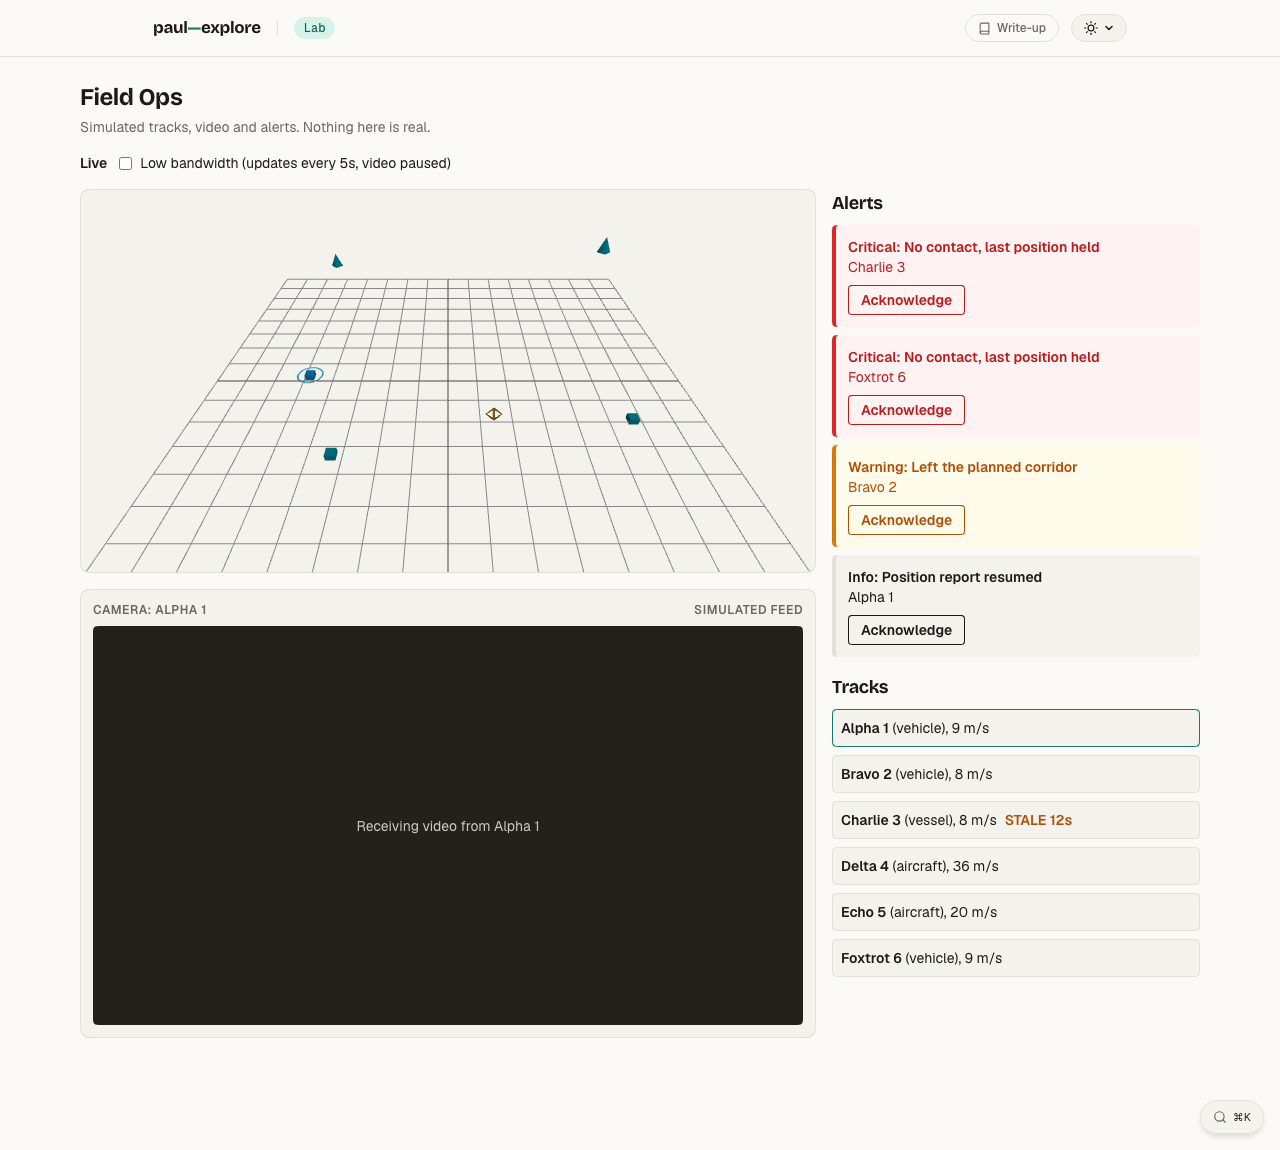
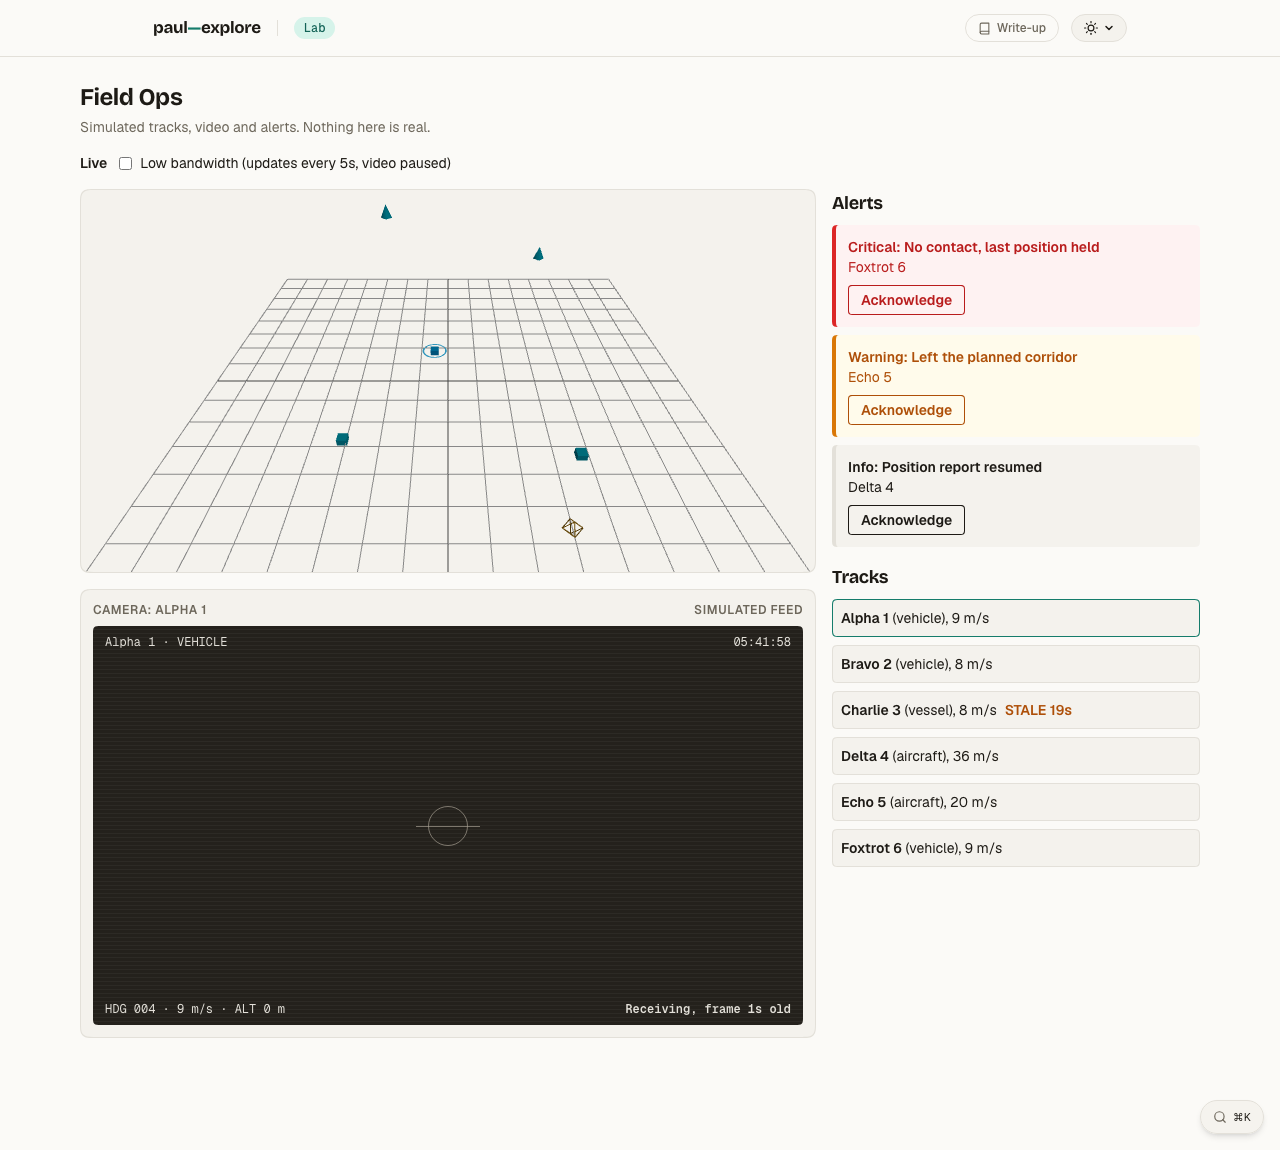
Make the camera tile show telemetry and no signal

diff --git a/src/app/lab/field-ops/VideoFeed.tsx b/src/app/lab/field-ops/VideoFeed.tsx
@@ -1,26 +1,73 @@
+import type { FieldOpsTrack } from "@/lib/field-ops/types";
+
 type VideoFeedProps = {
-  callsign: string | null;
+  track: FieldOpsTrack | null;
+  nowMs: number;
+  isStale: boolean;
   isPaused: boolean;
 };
 
+const SCANLINES =
+  "repeating-linear-gradient(to bottom, transparent 0, transparent 3px, rgb(255 255 255 / 0.04) 3px, rgb(255 255 255 / 0.04) 4px)";
+
+function timecode(timeMs: number): string {
+  return new Date(timeMs).toISOString().slice(11, 19);
+}
+
 /**
- * A stand-in for a camera: nothing is streamed, it is a styled tile. Low
- * bandwidth pauses it first because video is the expensive thing on a thin link.
+ * A stand-in for a camera: nothing is streamed, it is a styled frame with the
+ * selected track's telemetry over it. It follows the same rules as the map:
+ * a stale track freezes and says NO SIGNAL with the age of the last frame,
+ * rather than claiming to receive. Low bandwidth pauses it first because video
+ * is the expensive thing on a thin link.
  */
-export default function VideoFeed({ callsign, isPaused }: VideoFeedProps) {
+export default function VideoFeed({ track, nowMs, isStale, isPaused }: VideoFeedProps) {
+  const secondsSinceFrame = track ? Math.round((nowMs - track.lastReportedAtMs) / 1000) : 0;
+
   return (
     <figure className="rounded-2xl border border-border bg-surface p-3">
       <figcaption className="mb-2 flex items-center justify-between text-xs font-semibold uppercase tracking-wider text-muted">
-        <span>Camera: {callsign ?? "none selected"}</span>
-        <span>{isPaused ? "Paused" : "Simulated feed"}</span>
+        <span>Camera: {track?.callsign ?? "none selected"}</span>
+        <span>{isPaused ? "Paused" : isStale ? "No signal" : "Simulated feed"}</span>
       </figcaption>
-      <div className="flex aspect-video items-center justify-center rounded-lg bg-neutral-900 text-sm text-neutral-300">
-        {isPaused ? (
-          <p>Video paused to save data</p>
-        ) : callsign ? (
-          <p className="motion-safe:animate-pulse">Receiving video from {callsign}</p>
-        ) : (
+
+      <div
+        className="relative flex aspect-video items-center justify-center overflow-hidden rounded-lg bg-neutral-900 font-mono text-sm text-neutral-200"
+        style={{ backgroundImage: SCANLINES }}
+      >
+        {!track ? (
           <p>Select a track to see its camera</p>
+        ) : isPaused ? (
+          <p>Video paused to save data</p>
+        ) : (
+          <>
+            <div
+              aria-hidden="true"
+              className={`absolute inset-0 ${isStale ? "bg-black/60" : ""}`}
+            />
+            <div
+              aria-hidden="true"
+              className="h-10 w-10 rounded-full border border-neutral-400/70 after:absolute after:left-1/2 after:top-1/2 after:h-px after:w-16 after:-translate-x-1/2 after:bg-neutral-400/70"
+            />
+            <p className="absolute left-3 top-2 text-xs">
+              {track.callsign} · {track.kind.toUpperCase()}
+            </p>
+            <p className="absolute right-3 top-2 text-xs">
+              {isStale ? "FROZEN" : timecode(nowMs)}
+            </p>
+            <p className="absolute bottom-2 left-3 text-xs">
+              HDG {String(Math.round(track.headingDegrees)).padStart(3, "0")} ·{" "}
+              {Math.round(track.speedMetersPerSecond)} m/s · ALT {Math.round(track.altitudeMeters)} m
+            </p>
+            <p
+              role="status"
+              className={`absolute bottom-2 right-3 text-xs font-semibold ${isStale ? "text-warning-200" : ""}`}
+            >
+              {isStale
+                ? `NO SIGNAL, last frame ${secondsSinceFrame}s ago`
+                : `Receiving, frame ${secondsSinceFrame}s old`}
+            </p>
+          </>
         )}
       </div>
     </figure>

diff --git a/src/app/lab/field-ops/VideoFeed.test.tsx b/src/app/lab/field-ops/VideoFeed.test.tsx
@@ -18,7 +18,7 @@ const track: FieldOpsTrack = {
 describe("VideoFeed", () => {
   it("overlays the selected track's live telemetry on the frame", () => {
     render(<VideoFeed track={track} nowMs={101_000} isStale={false} isPaused={false} />);
-    expect(screen.getByText(/Delta 4/)).toBeInTheDocument();
+    expect(screen.getByText(/Delta 4 · AIRCRAFT/)).toBeInTheDocument();
     expect(screen.getByText(/087/)).toBeInTheDocument();
     expect(screen.getByText(/36 m\/s/)).toBeInTheDocument();
     expect(screen.getByText(/300 m/)).toBeInTheDocument();

diff --git a/src/app/lab/field-ops/FieldOpsConsole.tsx b/src/app/lab/field-ops/FieldOpsConsole.tsx
@@ -70,7 +70,12 @@ export default function FieldOpsConsole() {
               selectedTrackId={selectedTrackId}
             />
           </div>
-          <VideoFeed callsign={selectedTrack?.callsign ?? null} isPaused={feed.isLowBandwidth} />
+          <VideoFeed
+            track={selectedTrack}
+            nowMs={feed.nowMs}
+            isStale={selectedTrack ? staleTrackIds.has(selectedTrack.id) : false}
+            isPaused={feed.isLowBandwidth}
+          />
         </div>
 
         <div className="space-y-4">
